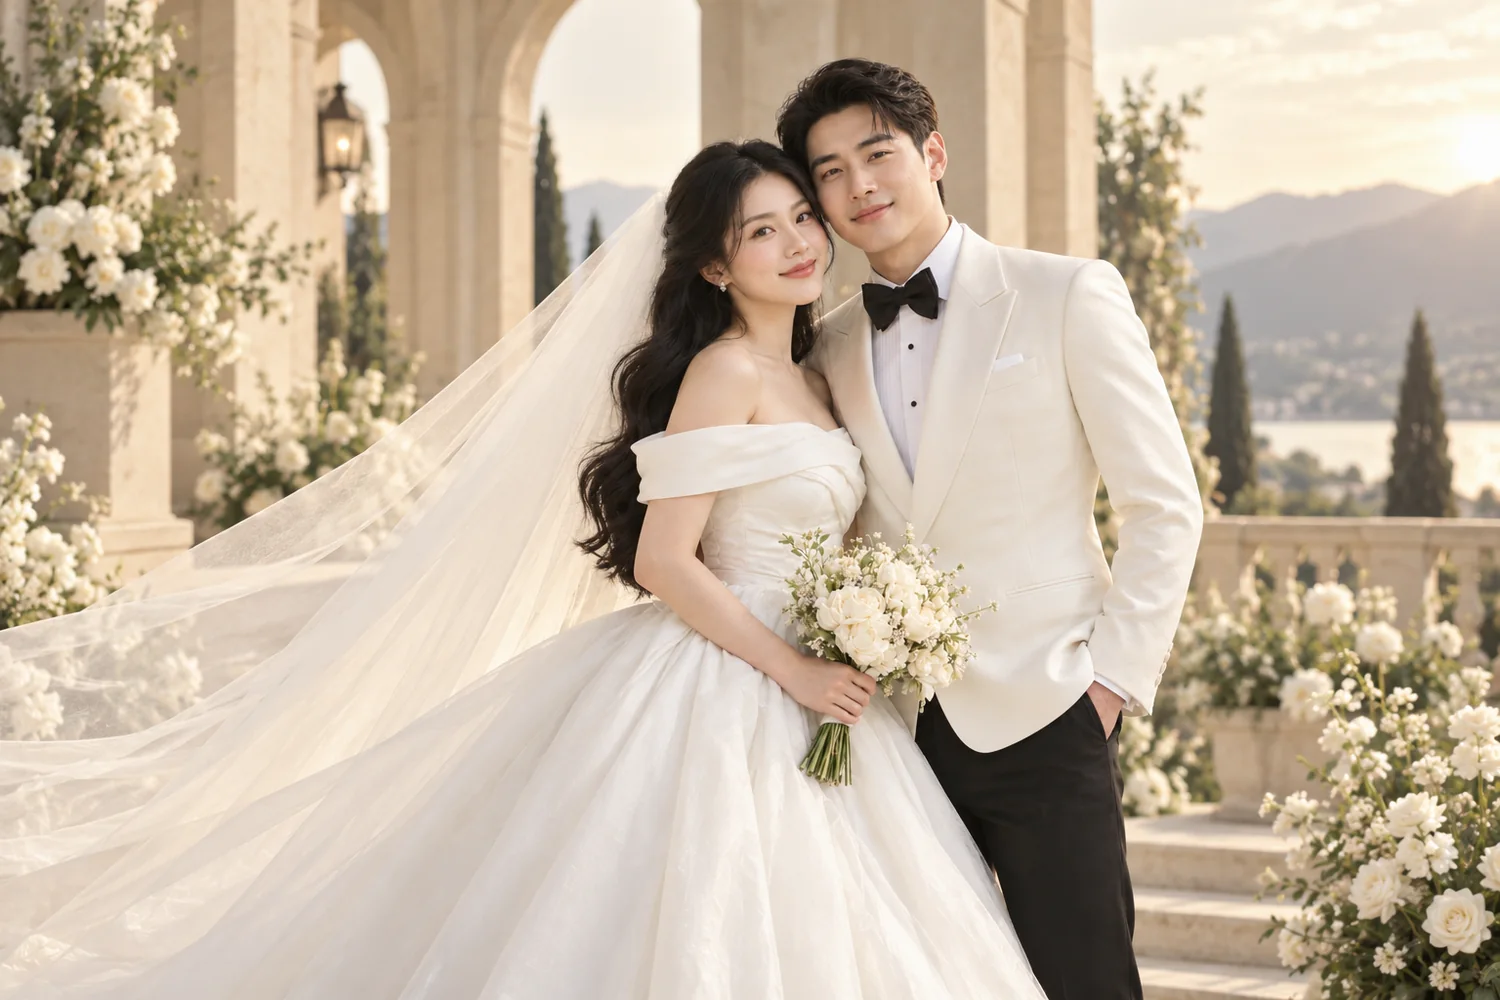
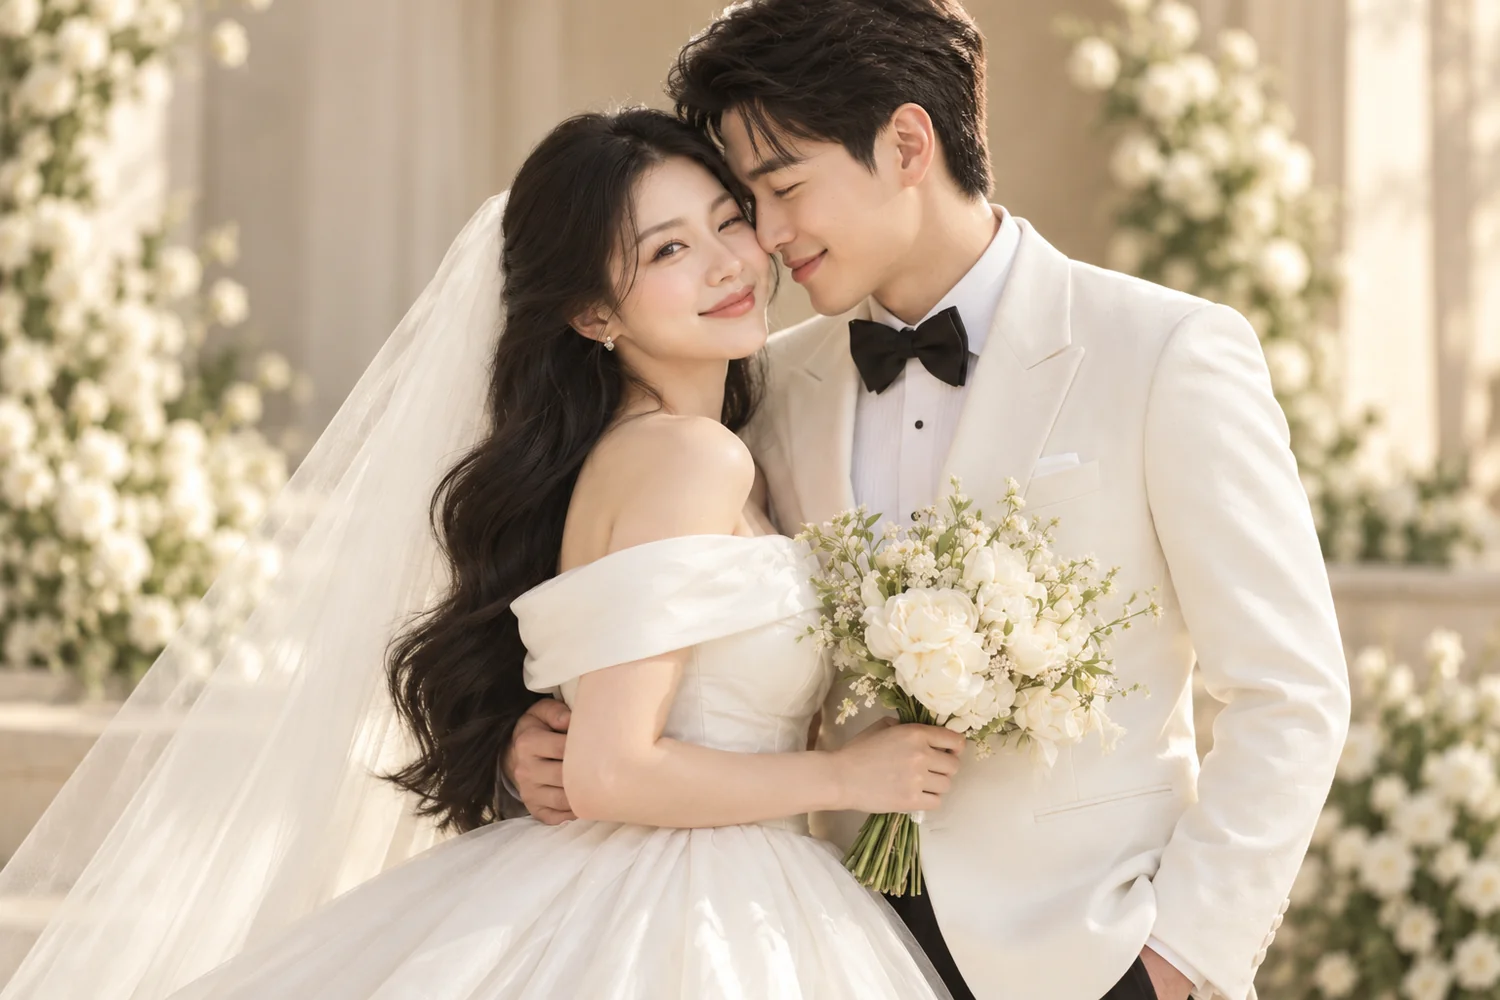
feat: Gallery v2 photos and cover cleanup for Our Wedding Story prototype
- Replace gallery-01…10 with the Gallery v2 demo photo set and update
  their real dimensions and face-centred focal points.
- gallery-04: focal y 0.22 -> 0.06 so the 3:2 wide closer tile
  (4- and 3+1-photo albums) keeps both faces and heads in frame.
- Remove the "Cover story" badge from the cover.

diff --git a/app/internal/prototypes/invitation/_directions/our-wedding-story/demo-media.ts b/app/internal/prototypes/invitation/_directions/our-wedding-story/demo-media.ts
@@ -47,16 +47,16 @@ const DEMO_AUDIO_URL = "/internal/renderer-harness/audio-tone.wav";
  * (09, 10) have no faces and stay centred.
  */
 const DEMO_ALBUM_PHOTOS: Pick<AlbumPhoto, "width" | "height" | "focalPoint">[] = [
-  { width: 1122, height: 1402, focalPoint: { x: 0.5, y: 0.2 } },
-  { width: 1122, height: 1402, focalPoint: { x: 0.5, y: 0.17 } },
-  { width: 1500, height: 1000, focalPoint: { x: 0.5, y: 0.25 } },
-  { width: 1086, height: 1448, focalPoint: { x: 0.5, y: 0.12 } },
-  { width: 1086, height: 1448, focalPoint: { x: 0.5, y: 0.15 } },
-  { width: 1086, height: 1448, focalPoint: { x: 0.5, y: 0.12 } },
-  { width: 1122, height: 1402, focalPoint: { x: 0.5, y: 0.15 } },
-  { width: 1500, height: 1000, focalPoint: { x: 0.5, y: 0.18 } },
-  { width: 1013, height: 522 },
-  { width: 718, height: 574 },
+  { width: 1122, height: 1402, focalPoint: { x: 0.5, y: 0.22 } },
+  { width: 1122, height: 1402, focalPoint: { x: 0.5, y: 0.24 } },
+  { width: 1122, height: 1402, focalPoint: { x: 0.52, y: 0.22 } },
+  { width: 1086, height: 1448, focalPoint: { x: 0.56, y: 0.06 } },
+  { width: 1500, height: 1000, focalPoint: { x: 0.57, y: 0.28 } },
+  { width: 1122, height: 1402, focalPoint: { x: 0.57, y: 0.21 } },
+  { width: 1122, height: 1402, focalPoint: { x: 0.52, y: 0.22 } },
+  { width: 1500, height: 1000, focalPoint: { x: 0.52, y: 0.26 } },
+  { width: 819, height: 673 },
+  { width: 887, height: 631 },
 ];
 
 export function resolveOwsMedia(scenario: OwsMediaScenario, sharedAlbum: AlbumPhoto[]): OwsMedia {

diff --git a/app/internal/prototypes/invitation/_directions/our-wedding-story/our-wedding-story.module.css b/app/internal/prototypes/invitation/_directions/our-wedding-story/our-wedding-story.module.css
@@ -142,19 +142,6 @@
   pointer-events: none;
 }
 
-.coverLine {
-  position: absolute;
-  left: 22px;
-  top: 22px;
-  padding: 4px 9px;
-  background: rgba(248, 243, 236, 0.9);
-  font-size: 9px;
-  font-weight: 500;
-  letter-spacing: 0.24em;
-  text-transform: uppercase;
-  color: var(--brown);
-}
-
 .coverText {
   position: relative;
   margin-top: -34px;

diff --git a/app/internal/prototypes/invitation/_directions/our-wedding-story/our-wedding-story.tsx b/app/internal/prototypes/invitation/_directions/our-wedding-story/our-wedding-story.tsx
@@ -468,7 +468,6 @@ function CoverSection({
             className={styles.coverPhoto}
           />
           <span className={styles.coverFrame} aria-hidden="true" />
-          <span className={styles.coverLine}>Cover story</span>
         </motion.div>
       )}
 
